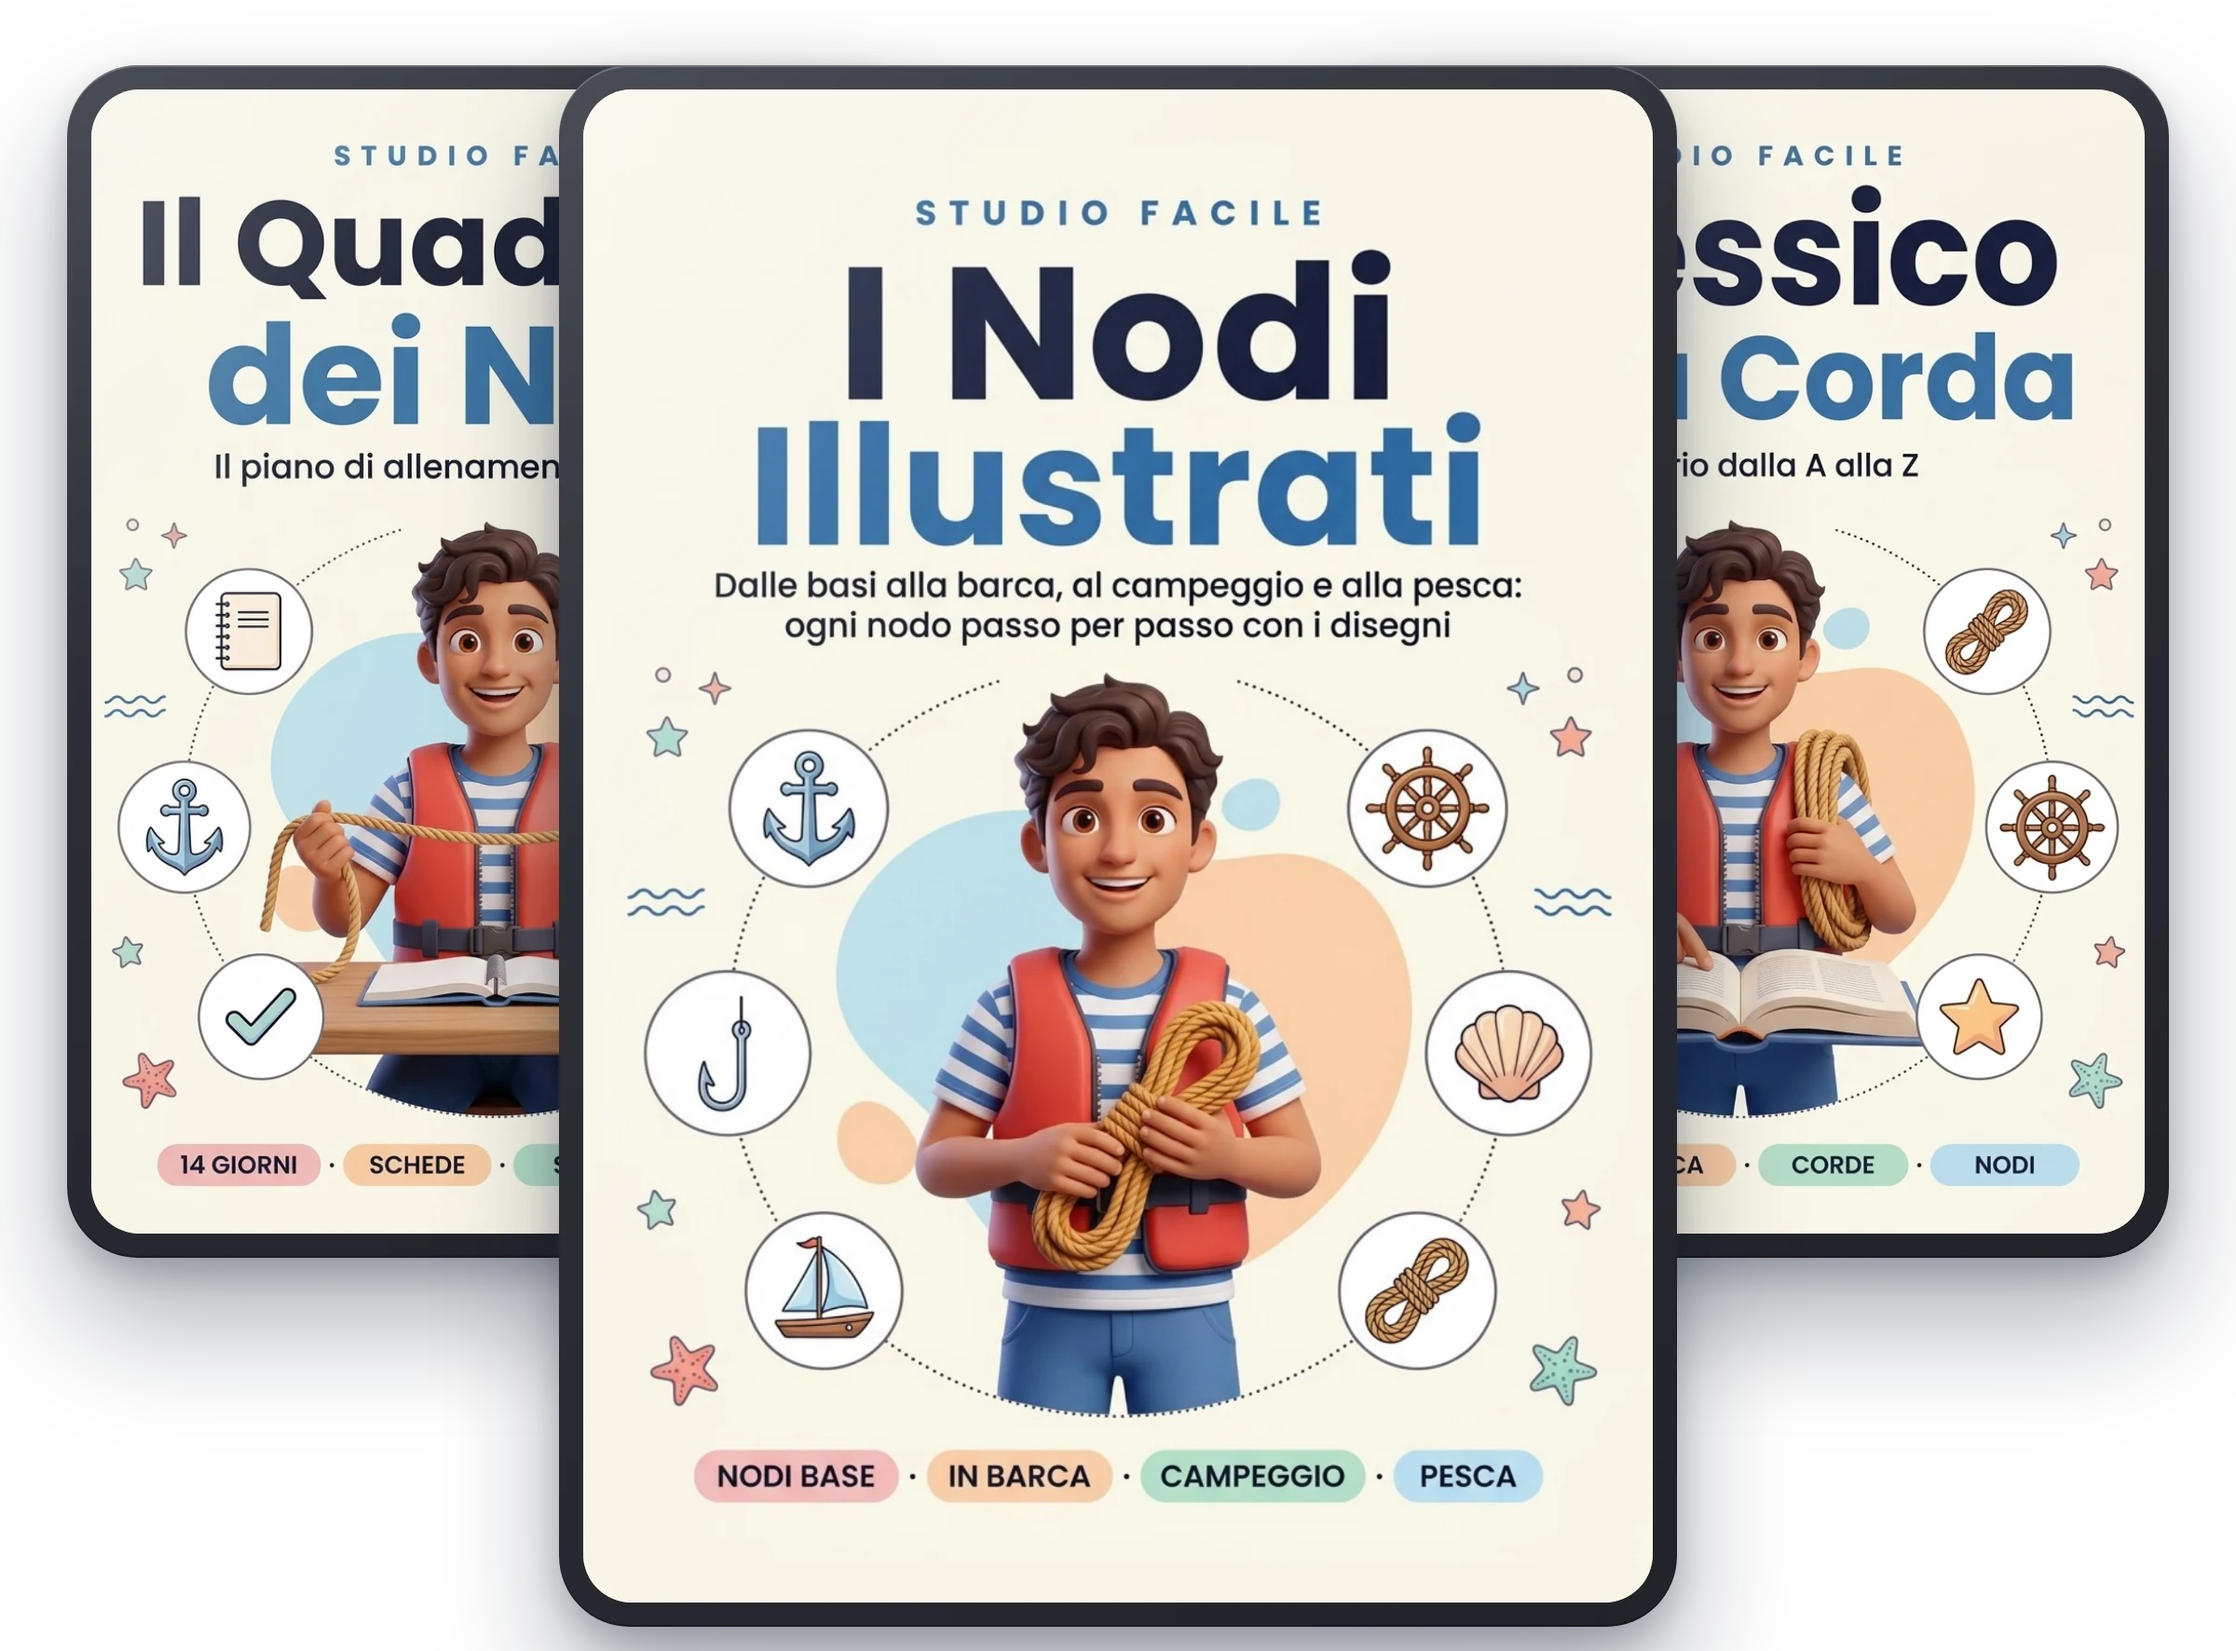
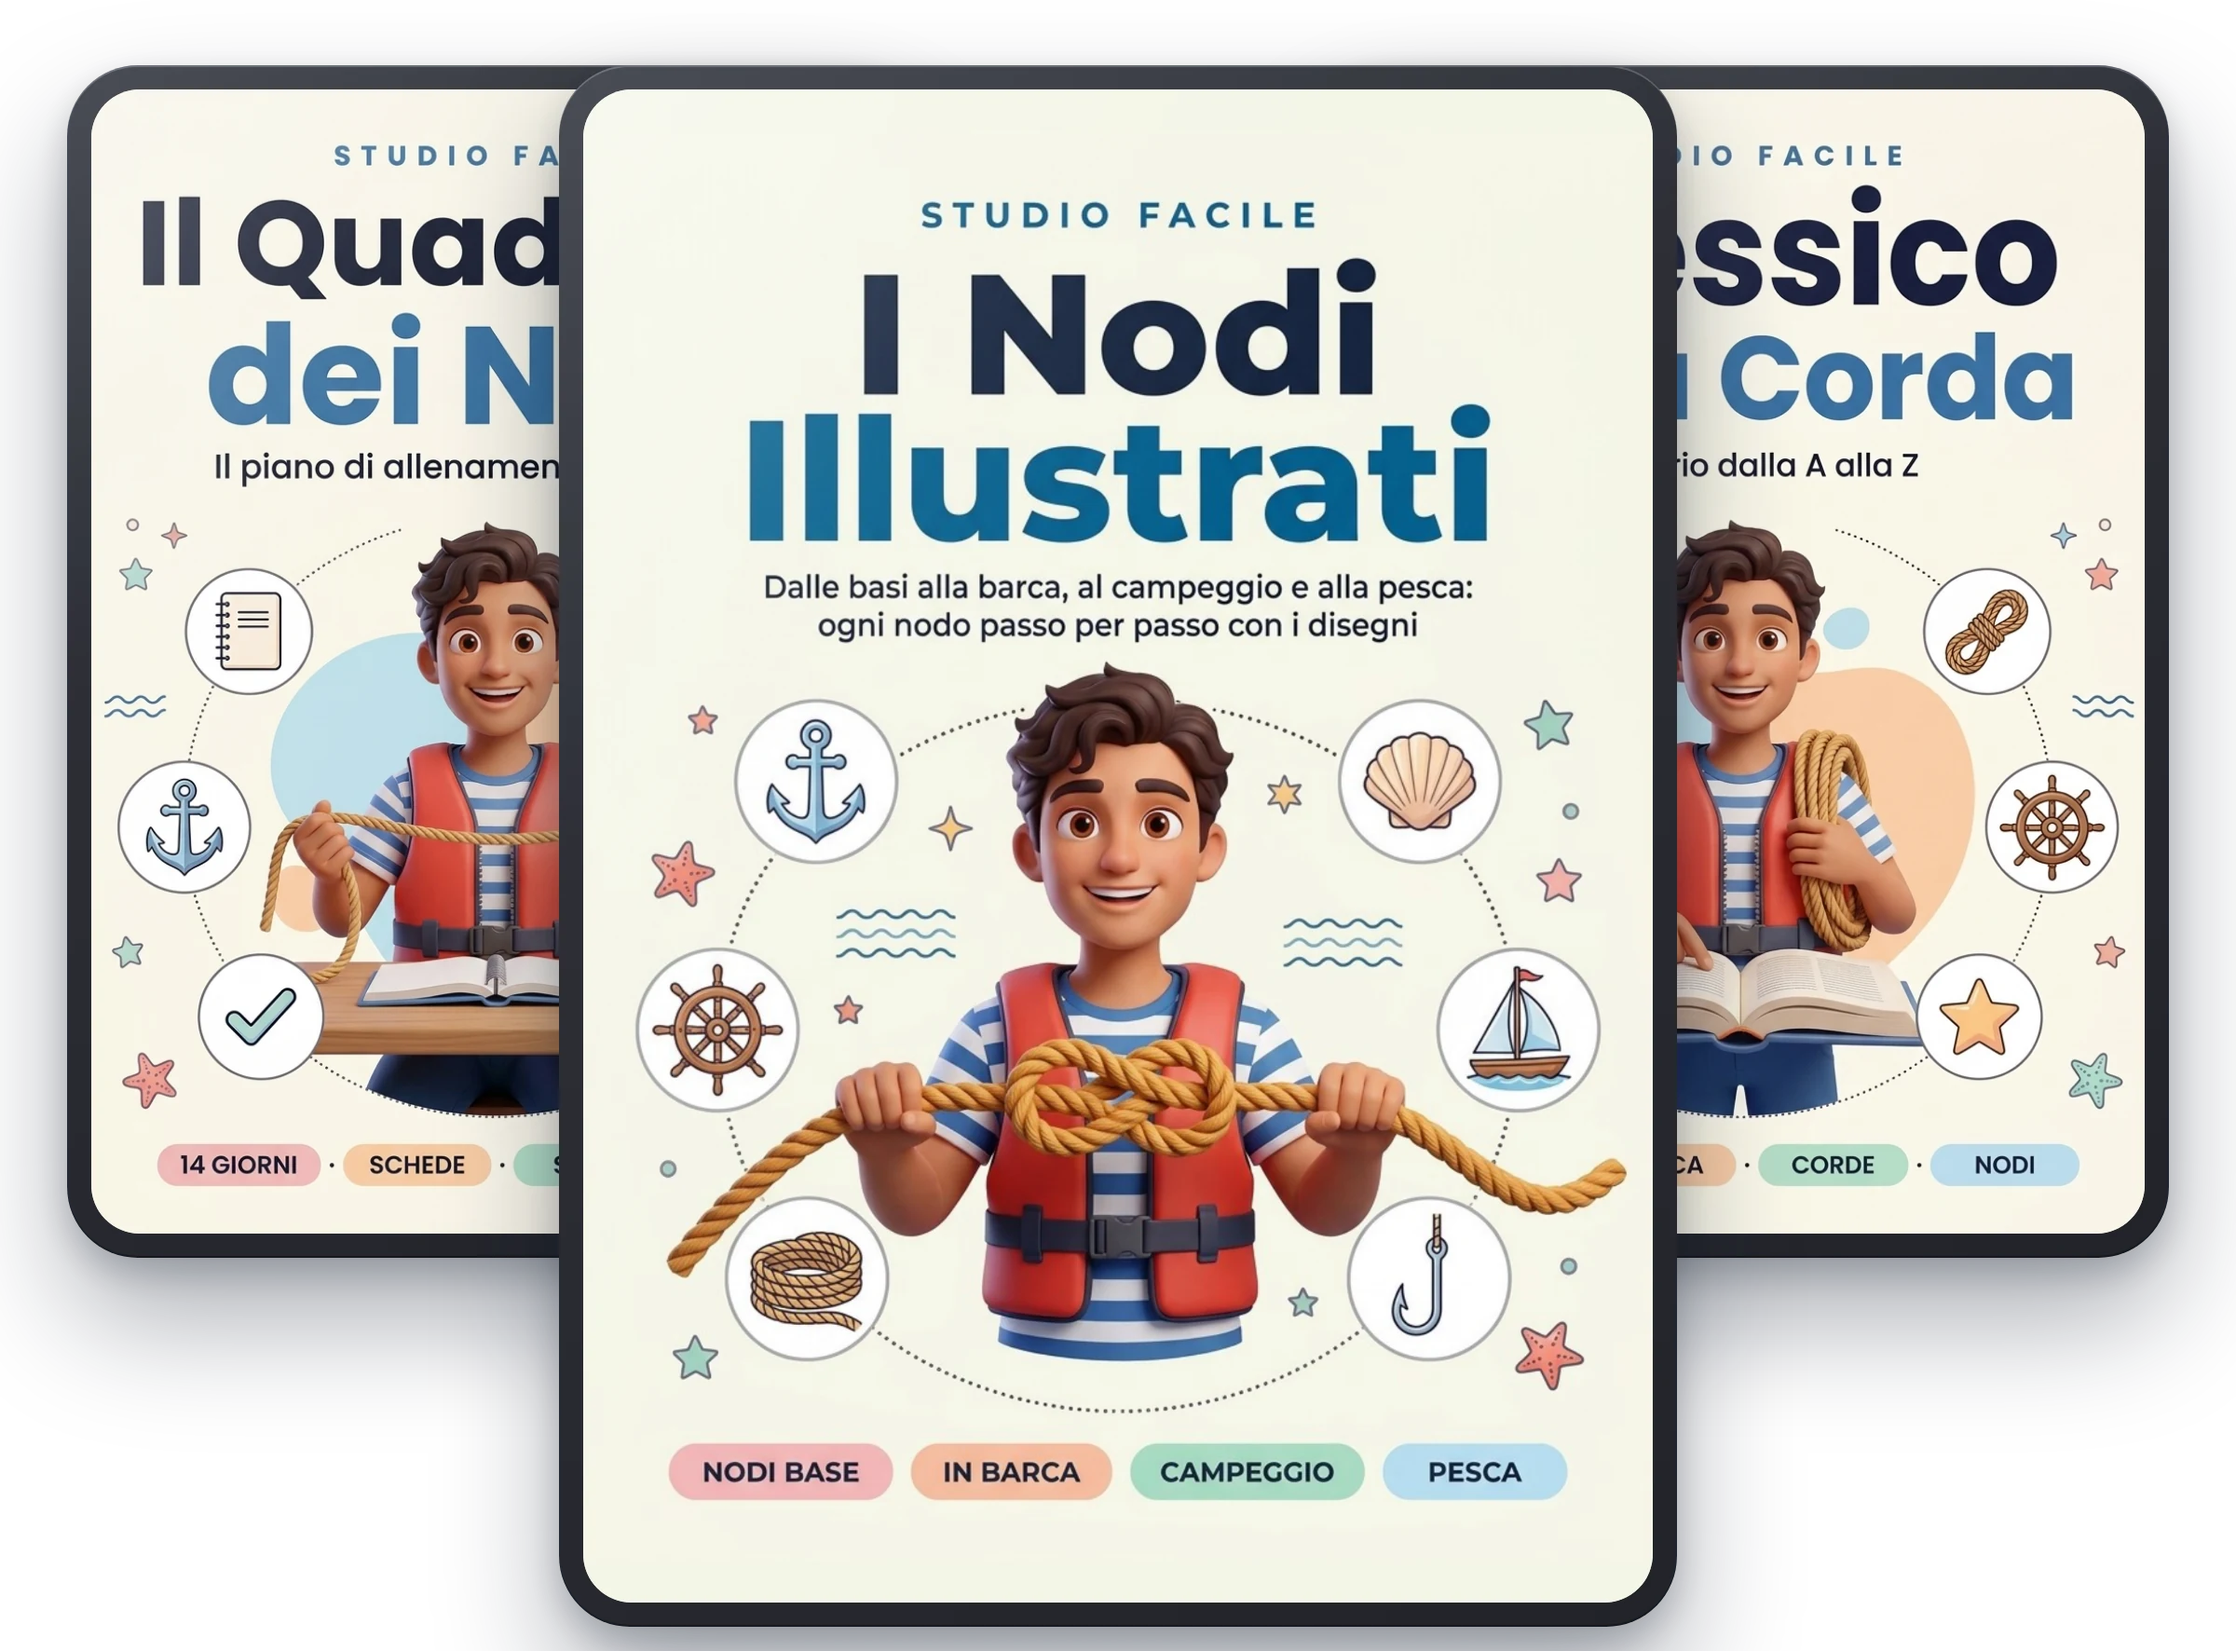
Landing nodi IT: portada nueva con nudo visible

Changed region(s): [[0.2812, 0.1242, 0.7188, 0.9001], [0.7188, 0.6828, 0.75, 0.7139], [0.6875, 0.5277, 0.7188, 0.5587]]

diff --git a/it/nodi.html b/it/nodi.html
@@ -2153,7 +2153,7 @@
   <section class="hero">
     <div class="hero-content">
       <div class="hero-mockup">
-        <img src="https://czocbnyoenjbpxmcqobn.supabase.co/storage/v1/object/public/algoritmia-img/studiofacile/mockups/nodi-it/hero.webp?v=814ebfe6" alt="I Nodi Illustrati, con Il Quaderno dei Nodi e Il Lessico della Corda in regalo"
+        <img src="https://czocbnyoenjbpxmcqobn.supabase.co/storage/v1/object/public/algoritmia-img/studiofacile/mockups/nodi-it/hero.webp?v=559a3287" alt="I Nodi Illustrati, con Il Quaderno dei Nodi e Il Lessico della Corda in regalo"
              width="1200" height="886" loading="eager" fetchpriority="high" decoding="async">
       </div>
       <h1>Il Modo Più Facile per Imparare i Nodi <mark>Con Ogni Passaggio Disegnato!</mark></h1>
@@ -2421,7 +2421,7 @@
     <div class="container">
       <h2 class="text-center">Ecco Cosa Riceverai Acquistando I Nodi Illustrati:</h2>
       <div style="margin: 20px auto 28px;">
-        <img src="https://czocbnyoenjbpxmcqobn.supabase.co/storage/v1/object/public/algoritmia-img/studiofacile/mockups/nodi-it/combo.webp?v=4f3c0def" alt="I Nodi Illustrati: mockup con pagine di esempio" width="1100" height="1620" loading="lazy" decoding="async" style="max-width: 480px; width: 100%; display: block; margin: 0 auto;">
+        <img src="https://czocbnyoenjbpxmcqobn.supabase.co/storage/v1/object/public/algoritmia-img/studiofacile/mockups/nodi-it/combo.webp?v=44efd8f0" alt="I Nodi Illustrati: mockup con pagine di esempio" width="1100" height="1620" loading="lazy" decoding="async" style="max-width: 480px; width: 100%; display: block; margin: 0 auto;">
       </div>
       <div class="topics-grid">
         <div class="topic-item">
@@ -2531,7 +2531,7 @@
 
       <!-- DECISION BOX -->
       <div class="decision-box" id="offerta">
-        <img src="https://czocbnyoenjbpxmcqobn.supabase.co/storage/v1/object/public/algoritmia-img/studiofacile/mockups/nodi-it/hero.webp?v=814ebfe6" alt="I Nodi Illustrati con i due volumi in regalo" class="db-mockup" width="1200" height="886" loading="lazy" decoding="async">
+        <img src="https://czocbnyoenjbpxmcqobn.supabase.co/storage/v1/object/public/algoritmia-img/studiofacile/mockups/nodi-it/hero.webp?v=559a3287" alt="I Nodi Illustrati con i due volumi in regalo" class="db-mockup" width="1200" height="886" loading="lazy" decoding="async">
         <h3 class="db-title">I Nodi Illustrati + 2 Volumi in Regalo</h3>
         <ul class="db-checklist">
           <li><span class="db-check"><svg viewBox="0 0 24 24"><polyline points="20 6 9 17 4 12"/></svg></span>I Nodi Illustrati: 50 pagine illustrate<span class="db-price-val">58,20€</span></li>
